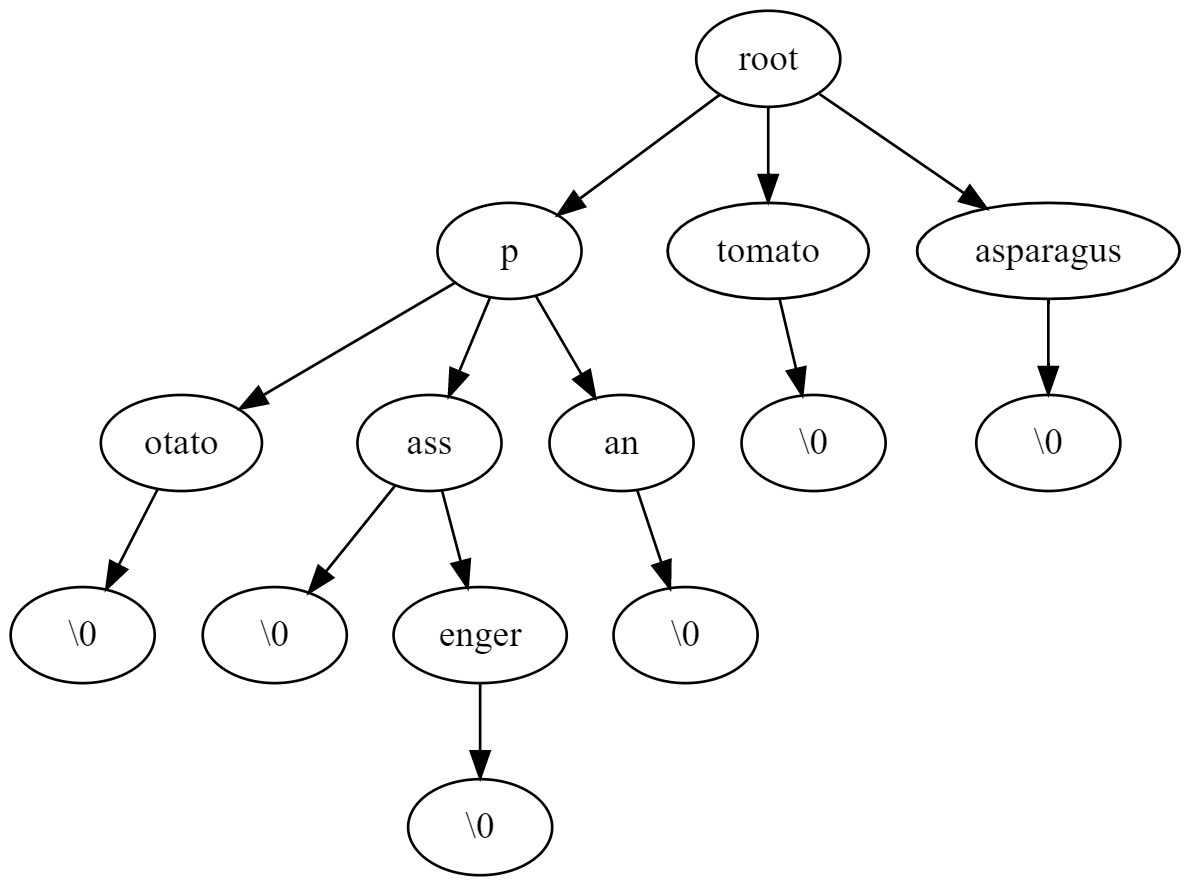
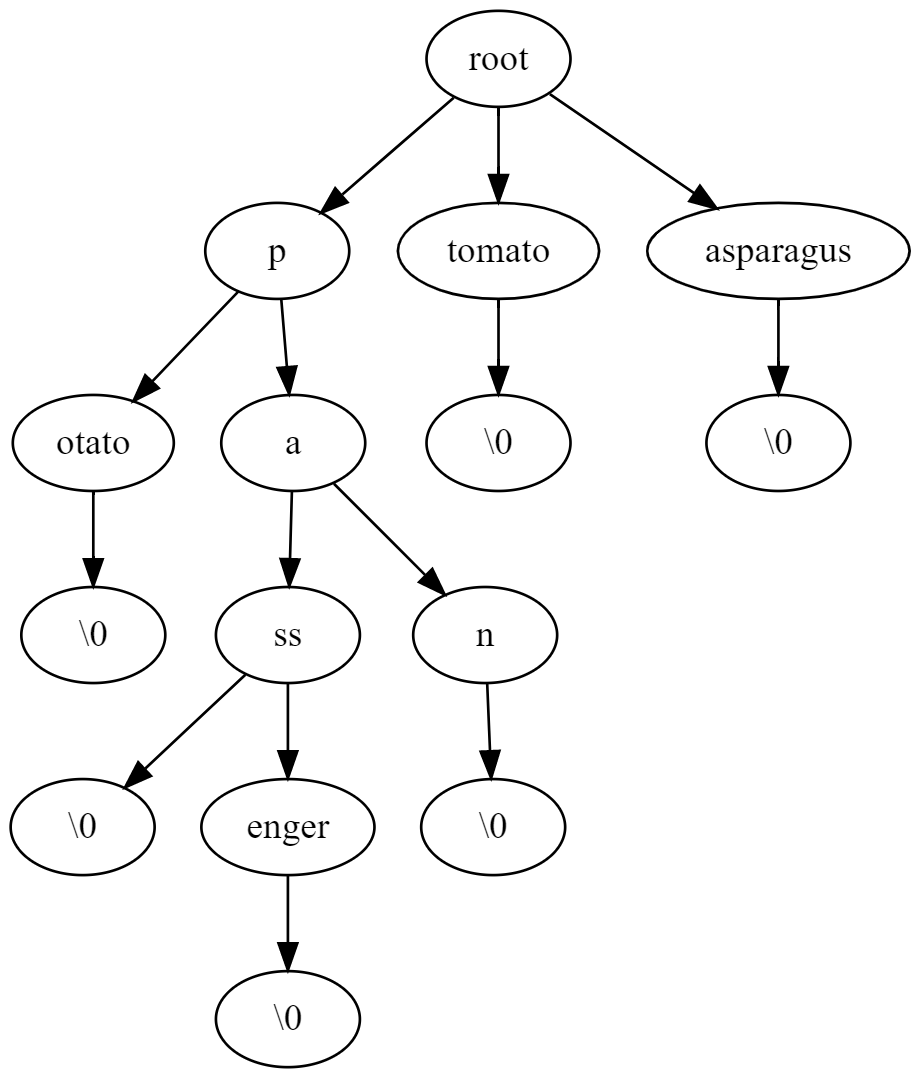
Fix typos and wrong graphs

diff --git a/code/exam2-trie/README.md b/code/exam2-trie/README.md
@@ -8,7 +8,7 @@ You already know about trees - we saw a few types of binary trees, namely BST an
 
 One of those trees is called a **`Trie`**, and while the exact etymology isn't clear, the best explanation I've seen is that it stands for re**trie**val tree (more on that below). It is very much a **tree** (has the concept of parent and child nodes), however, it is very much **not binary**. In fact, a Trie can have any number of children - we will be using an `std::set` to manage them, instead of `left`/`right` like we did with binary search trees. Why a `set` and not a `vector`? You'll find out shortly.
 
-So what is a `Trie` used for? In short - string searching. There are two main types of tries, a prefix trie (what you'll be working on). Let's look at a motivating example. Imagine we have the following set of words:
+So what is a `Trie` used for? In short - string searching. There are two main types of tries, a **prefix trie** (more common and what you'll be working on) and a **suffix trie**. Let's look at a motivating example to see why we might need a prefix trie. Imagine we have the following set of words:
 ```
 potato
 passenger
@@ -17,9 +17,10 @@ pan
 pass
 asparagus
 ```
-How do we efficiently do an auto-completion on this set, such that typing a prefix gives us an alphabetical list of suggestions, like so:
+How do we **efficiently** do an auto-completion on this set, such that typing a prefix gives us an alphabetical list of suggestions, like so:
 ```
 > pa
+pan
 pass
 passenger
 ```
@@ -38,13 +39,13 @@ Uh oh... that's not a tree, is it? That's a graph. So we need another rule! We w
 
 <img src="images/kinda.png" alt="drawing" height="400"/>
 
-(btw, you can see the graphviz code for this [here](https://dreampuf.github.io/GraphvizOnline/#digraph%20G%20%7B%0A%20%20%20%20root%5Blabel%3D%22root%22%5D%0A%20%20%20%20%2F%2F%20potato%0A%20%20%20%20p1%5Blabel%3D%22p%22%5D%0A%20%20%20%20o1%5Blabel%3D%22o%22%5D%0A%20%20%20%20t1%5Blabel%3D%22t%22%5D%0A%20%20%20%20a1%5Blabel%3D%22a%22%5D%0A%20%20%20%20t2%5Blabel%3D%22t%22%5D%0A%20%20%20%20o2%5Blabel%3D%22o%22%5D%0A%20%20%20%20%0A%20%20%20%20%2F%2F%20passenger%0A%20%20%20%20a2%5Blabel%3D%22a%22%5D%0A%20%20%20%20s1%5Blabel%3D%22s%22%5D%0A%20%20%20%20s2%5Blabel%3D%22s%22%5D%0A%20%20%20%20e1%5Blabel%3D%22e%22%5D%0A%20%20%20%20n1%5Blabel%3D%22n%22%5D%0A%20%20%20%20g1%5Blabel%3D%22g%22%5D%0A%20%20%20%20e2%5Blabel%3D%22e%22%5D%0A%20%20%20%20r1%5Blabel%3D%22r%22%5D%0A%20%20%20%20%0A%20%20%20%20%2F%2F%20tomato%0A%20%20%20%20t3%5Blabel%3D%22t%22%5D%0A%20%20%20%20o3%5Blabel%3D%22o%22%5D%0A%20%20%20%20m1%5Blabel%3D%22m%22%5D%0A%20%20%20%20a3%5Blabel%3D%22a%22%5D%0A%20%20%20%20t4%5Blabel%3D%22t%22%5D%0A%20%20%20%20o4%5Blabel%3D%22o%22%5D%0A%20%20%20%20%0A%20%20%20%20%2F%2F%20pan%0A%20%20%20%20a4%5Blabel%3D%22a%22%5D%0A%20%20%20%20n2%5Blabel%3D%22n%22%5D%0A%20%20%20%20%0A%20%20%20%20%2F%2F%20asparagus%0A%20%20%20%20a5%5Blabel%3D%22a%22%5D%0A%20%20%20%20s3%5Blabel%3D%22s%22%5D%0A%20%20%20%20p2%5Blabel%3D%22p%22%5D%0A%20%20%20%20a6%5Blabel%3D%22a%22%5D%0A%20%20%20%20r2%5Blabel%3D%22r%22%5D%0A%20%20%20%20a7%5Blabel%3D%22a%22%5D%0A%20%20%20%20g2%5Blabel%3D%22g%22%5D%0A%20%20%20%20u1%5Blabel%3D%22u%22%5D%0A%20%20%20%20s4%5Blabel%3D%22s%22%5D%0A%20%20%20%20%0A%20%20%20%20%0A%20%20%20%20%2F%2F%20edges%0A%20%20%20%20root-%3Ep1-%3Eo1-%3Et1-%3Ea1-%3Et2-%3Eo2%0A%20%20%20%20p1-%3Ea2-%3Es1-%3Es2-%3Ee1-%3En1-%3Eg1-%3Ee2-%3Er1%0A%20%20%20%20root-%3Et3-%3Eo3-%3Em1-%3Ea3-%3Et4-%3Eo4%0A%20%20%20%20p1-%3Ea4-%3En2%0A%20%20%20%20root-%3Ea5-%3Es3-%3Ep2-%3Ea6-%3Er2-%3Ea7-%3Eg2-%3Eu1-%3Es4%0A%7D) )
+(btw, you can see the graphviz code for this [here](https://dreampuf.github.io/GraphvizOnline/#digraph%20G%20%7B%0A%20%20%20%20root%5Blabel%3D%22root%22%5D%0A%20%20%20%20%2F%2F%20potato%0A%20%20%20%20p1%5Blabel%3D%22p%22%5D%0A%20%20%20%20o1%5Blabel%3D%22o%22%5D%0A%20%20%20%20t1%5Blabel%3D%22t%22%5D%0A%20%20%20%20a1%5Blabel%3D%22a%22%5D%0A%20%20%20%20t2%5Blabel%3D%22t%22%5D%0A%20%20%20%20o2%5Blabel%3D%22o%22%5D%0A%20%20%20%20%0A%20%20%20%20%2F%2F%20passenger%0A%20%20%20%20a2%5Blabel%3D%22a%22%5D%0A%20%20%20%20s1%5Blabel%3D%22s%22%5D%0A%20%20%20%20s2%5Blabel%3D%22s%22%5D%0A%20%20%20%20e1%5Blabel%3D%22e%22%5D%0A%20%20%20%20n1%5Blabel%3D%22n%22%5D%0A%20%20%20%20g1%5Blabel%3D%22g%22%5D%0A%20%20%20%20e2%5Blabel%3D%22e%22%5D%0A%20%20%20%20r1%5Blabel%3D%22r%22%5D%0A%20%20%20%20%0A%20%20%20%20%2F%2F%20tomato%0A%20%20%20%20t3%5Blabel%3D%22t%22%5D%0A%20%20%20%20o3%5Blabel%3D%22o%22%5D%0A%20%20%20%20m1%5Blabel%3D%22m%22%5D%0A%20%20%20%20a3%5Blabel%3D%22a%22%5D%0A%20%20%20%20t4%5Blabel%3D%22t%22%5D%0A%20%20%20%20o4%5Blabel%3D%22o%22%5D%0A%20%20%20%20%0A%20%20%20%20%2F%2F%20pan%0A%20%20%20%20n2%5Blabel%3D%22n%22%5D%0A%20%20%20%20%0A%20%20%20%20%2F%2F%20asparagus%0A%20%20%20%20a5%5Blabel%3D%22a%22%5D%0A%20%20%20%20s3%5Blabel%3D%22s%22%5D%0A%20%20%20%20p2%5Blabel%3D%22p%22%5D%0A%20%20%20%20a6%5Blabel%3D%22a%22%5D%0A%20%20%20%20r2%5Blabel%3D%22r%22%5D%0A%20%20%20%20a7%5Blabel%3D%22a%22%5D%0A%20%20%20%20g2%5Blabel%3D%22g%22%5D%0A%20%20%20%20u1%5Blabel%3D%22u%22%5D%0A%20%20%20%20s4%5Blabel%3D%22s%22%5D%0A%20%20%20%20%0A%20%20%20%20%0A%20%20%20%20%2F%2F%20edges%0A%20%20%20%20root-%3Ep1-%3Eo1-%3Et1-%3Ea1-%3Et2-%3Eo2%0A%20%20%20%20p1-%3Ea2-%3Es1-%3Es2-%3Ee1-%3En1-%3Eg1-%3Ee2-%3Er1%0A%20%20%20%20root-%3Et3-%3Eo3-%3Em1-%3Ea3-%3Et4-%3Eo4%0A%20%20%20%20a2-%3En2%0A%20%20%20%20root-%3Ea5-%3Es3-%3Ep2-%3Ea6-%3Er2-%3Ea7-%3Eg2-%3Eu1-%3Es4%0A%7D) )
 
 OK... definitely getting closer! This looks good, we can make one of these for any set of words. **However** - you may spot an issue on the search side. We haven't defined how we'd search one of these trees. Say we want to find all words that start with `pa` - we can follow `root`->`p`->`a` and then what? We can follow all children until we get to a leaf node - that would find `passenger` and `pan`. But what about `pass`? We now get to the final structural rule of a prefix trie - **all words have a terminator node** - this is just a special node that doesn't store a character but just says "hey my parent is the last character of a word". Let's look at this new tree.
 
 <img src="images/final.png" alt="drawing" height="300"/>
 
-(graphviz for this one [here](https://dreampuf.github.io/GraphvizOnline/#digraph%20G%20%7B%0A%20%20%20%20root%5Blabel%3D%22root%22%5D%0A%20%20%20%20%2F%2F%20potato%0A%20%20%20%20p1%5Blabel%3D%22p%22%5D%0A%20%20%20%20o1%5Blabel%3D%22otato%22%5D%0A%20%20%20%20end1%5Blabel%3D%22%5C%5C0%22%5D%0A%20%20%20%20%0A%20%20%20%20%2F%2F%20pass%20%2F%20passenger%0A%20%20%20%20a2%5Blabel%3D%22ass%22%5D%0A%20%20%20%20end2%5Blabel%3D%22%5C%5C0%22%5D%0A%20%20%20%20e1%5Blabel%3D%22enger%22%5D%0A%20%20%20%20end3%5Blabel%3D%22%5C%5C0%22%5D%0A%20%20%20%20%0A%20%20%20%20%2F%2F%20tomato%0A%20%20%20%20t3%5Blabel%3D%22tomato%22%5D%0A%20%20%20%20end4%5Blabel%3D%22%5C%5C0%22%5D%0A%20%20%20%20%0A%20%20%20%20%2F%2F%20pan%0A%20%20%20%20a4%5Blabel%3D%22an%22%5D%0A%20%20%20%20end5%5Blabel%3D%22%5C%5C0%22%5D%0A%20%20%20%20%0A%20%20%20%20%2F%2F%20asparagus%0A%20%20%20%20a5%5Blabel%3D%22asparagus%22%5D%0A%20%20%20%20end6%5Blabel%3D%22%5C%5C0%22%5D%0A%20%20%20%20%0A%20%20%20%20%0A%20%20%20%20%2F%2F%20edges%0A%20%20%20%20root-%3Ep1-%3Eo1-%3Eend1%0A%20%20%20%20p1-%3Ea2-%3Ee1-%3Eend3%0A%20%20%20%20a2-%3Eend2%0A%20%20%20%20root-%3Et3-%3Eend4%0A%20%20%20%20p1-%3Ea4-%3Eend5%0A%20%20%20%20root-%3Ea5-%3Eend6%0A%7D) )
+(graphviz for this one [here](https://dreampuf.github.io/GraphvizOnline/#digraph%20G%20%7B%0A%20%20%20%20root%5Blabel%3D%22root%22%5D%0A%20%20%20%20%2F%2F%20potato%0A%20%20%20%20p1%5Blabel%3D%22p%22%5D%0A%20%20%20%20o1%5Blabel%3D%22otato%22%5D%0A%20%20%20%20end1%5Blabel%3D%22%5C%5C0%22%5D%0A%20%20%20%20%0A%20%20%20%20%2F%2F%20pass%20%2F%20passenger%0A%20%20%20%20a1%5Blabel%3D%22a%22%5D%0A%20%20%20%20s1%5Blabel%3D%22ss%22%5D%0A%20%20%20%20end2%5Blabel%3D%22%5C%5C0%22%5D%0A%20%20%20%20e1%5Blabel%3D%22enger%22%5D%0A%20%20%20%20end3%5Blabel%3D%22%5C%5C0%22%5D%0A%20%20%20%20%0A%20%20%20%20%2F%2F%20tomato%0A%20%20%20%20t1%5Blabel%3D%22tomato%22%5D%0A%20%20%20%20end4%5Blabel%3D%22%5C%5C0%22%5D%0A%20%20%20%20%0A%20%20%20%20%2F%2F%20pan%0A%20%20%20%20n1%5Blabel%3D%22n%22%5D%0A%20%20%20%20end5%5Blabel%3D%22%5C%5C0%22%5D%0A%20%20%20%20%0A%20%20%20%20%2F%2F%20asparagus%0A%20%20%20%20a2%5Blabel%3D%22asparagus%22%5D%0A%20%20%20%20end6%5Blabel%3D%22%5C%5C0%22%5D%0A%20%20%20%20%0A%20%20%20%20%0A%20%20%20%20%2F%2F%20edges%0A%20%20%20%20root-%3Ep1-%3Eo1-%3Eend1%0A%20%20%20%20p1-%3Ea1-%3Es1-%3Ee1-%3Eend3%0A%20%20%20%20s1-%3Eend2%0A%20%20%20%20root-%3Et1-%3Eend4%0A%20%20%20%20a1-%3En1-%3Eend5%0A%20%20%20%20root-%3Ea2-%3Eend6%0A%7D) )
 
 We've done a small rendering change here - we collate all single-child nodes into a single bubble in our graph, e.g. `otato` - the trie will still contain individual nodes - this is just to make things a bit more clear in display. The `Trie::to_string` method in your assignment does the same collation - again - **this is just a display convenience**, all the individual nodes are still in the tree.
 
